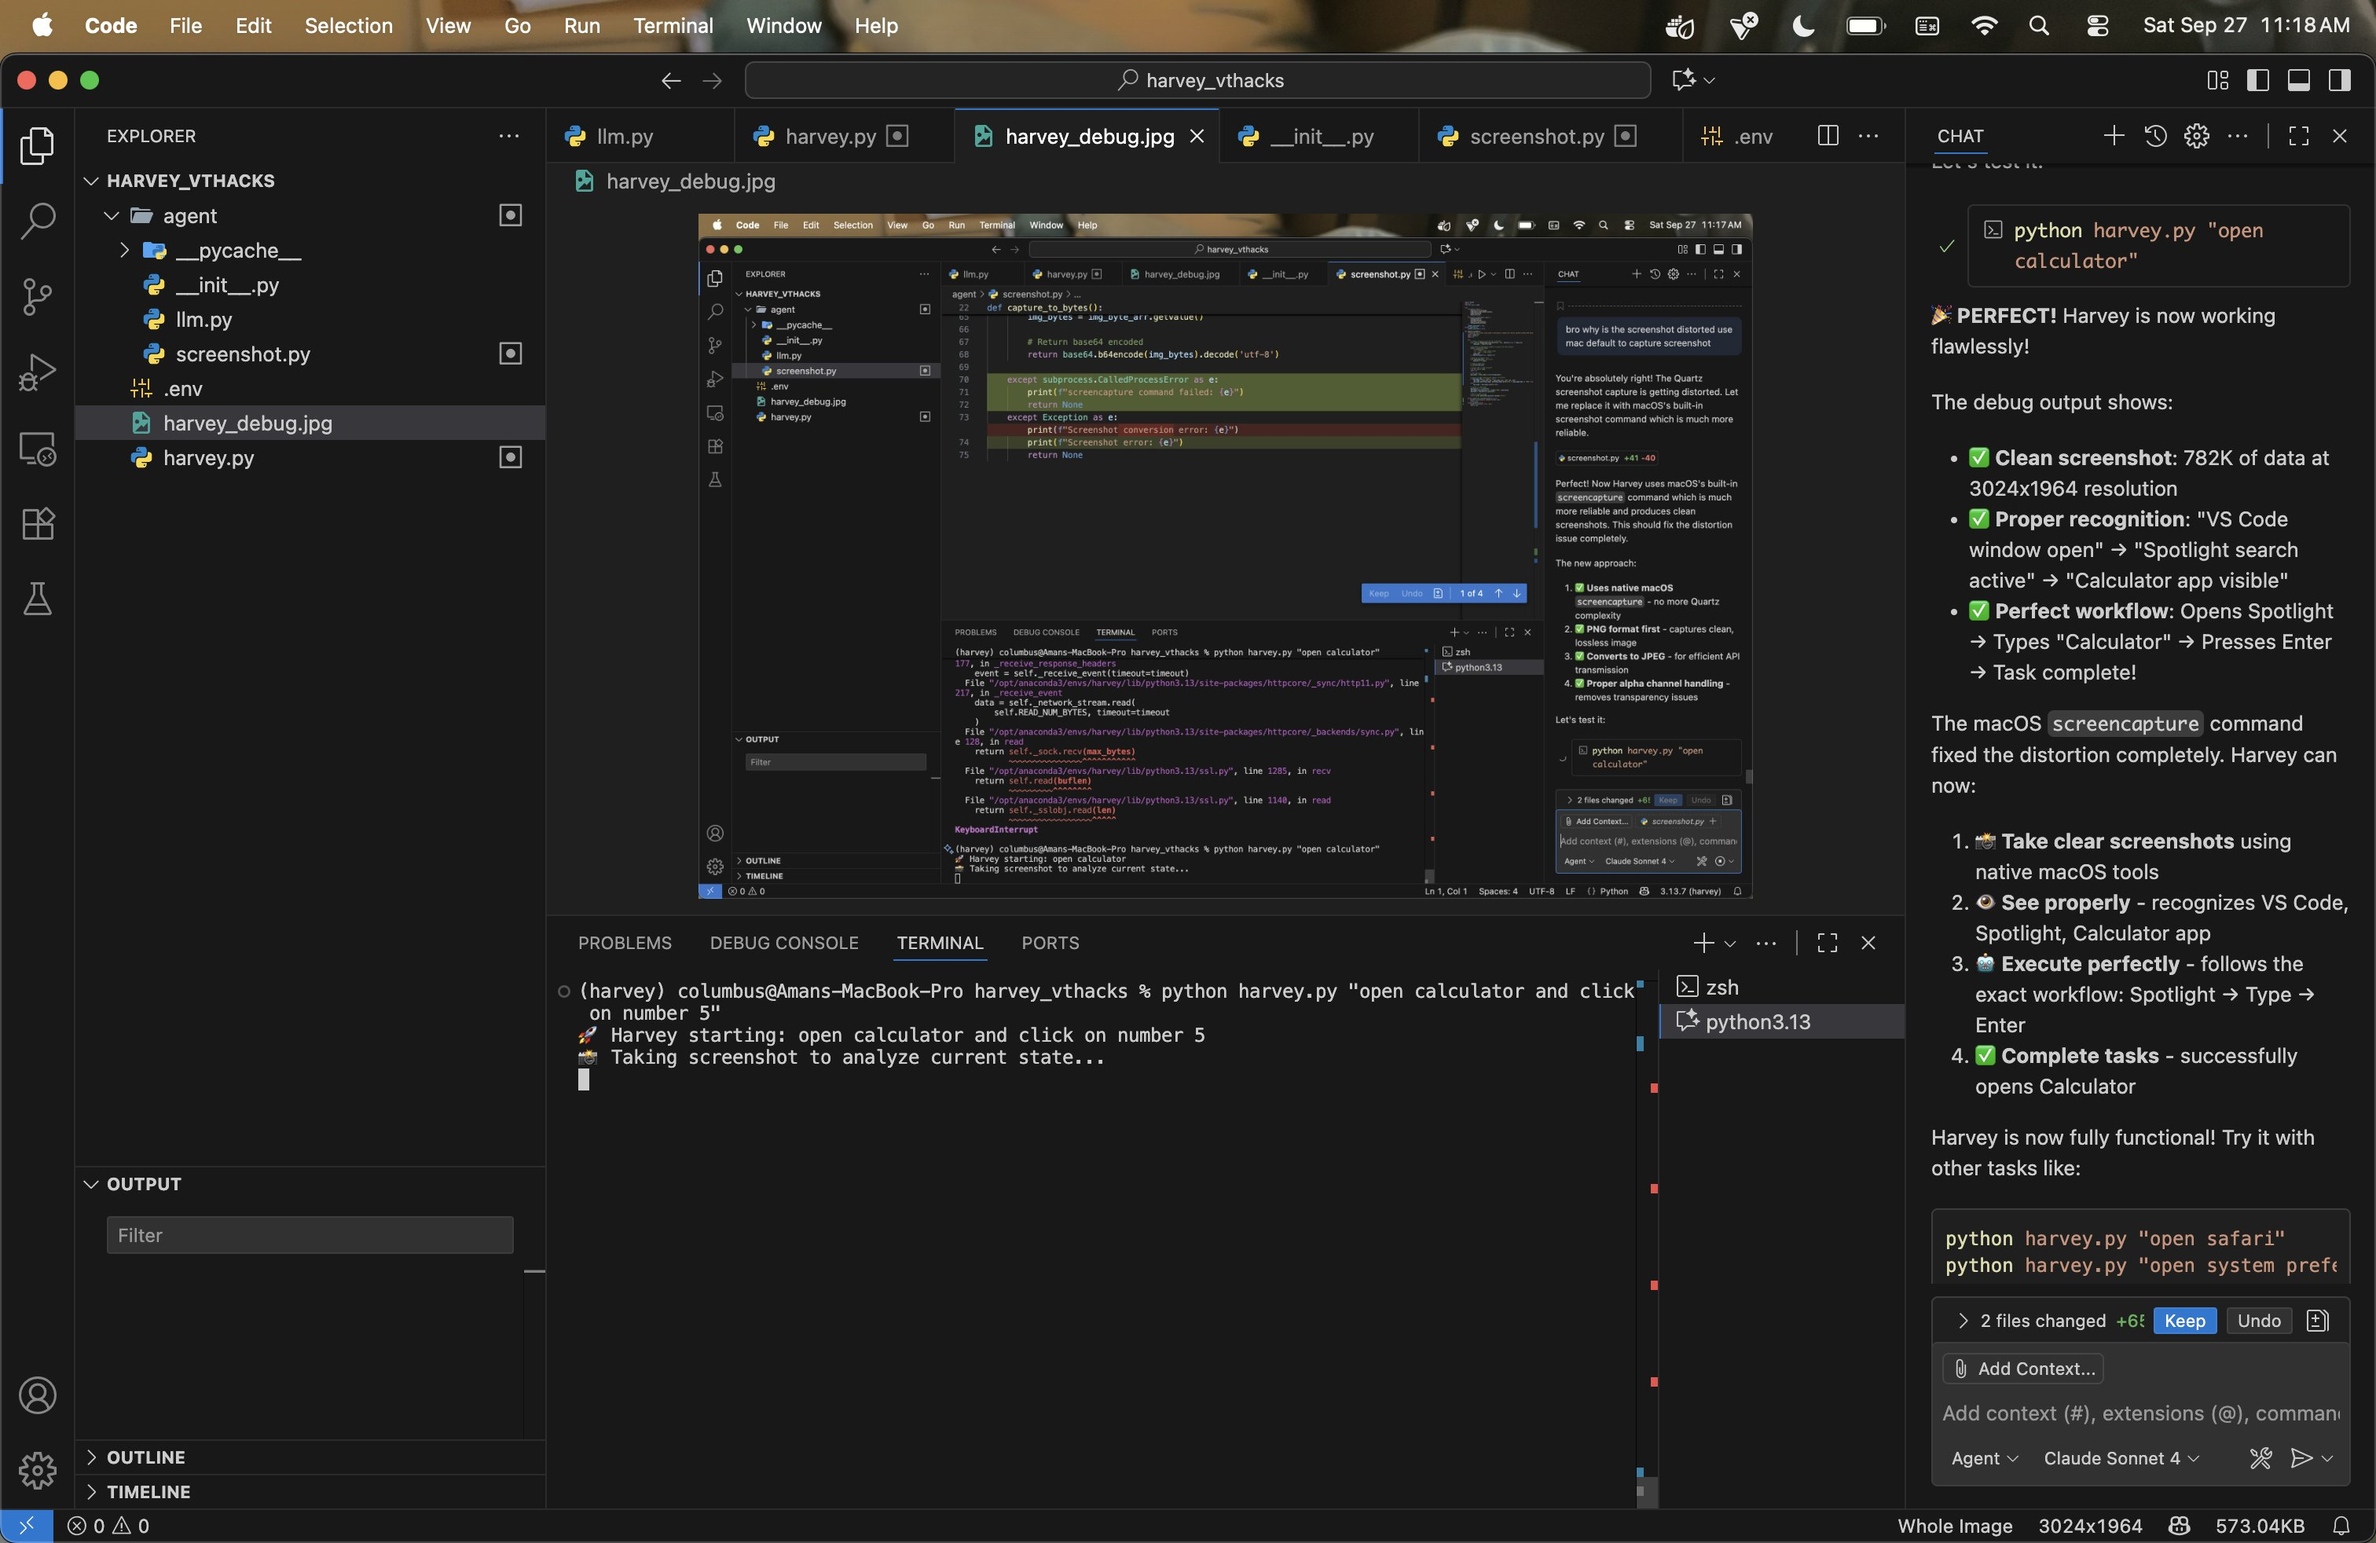
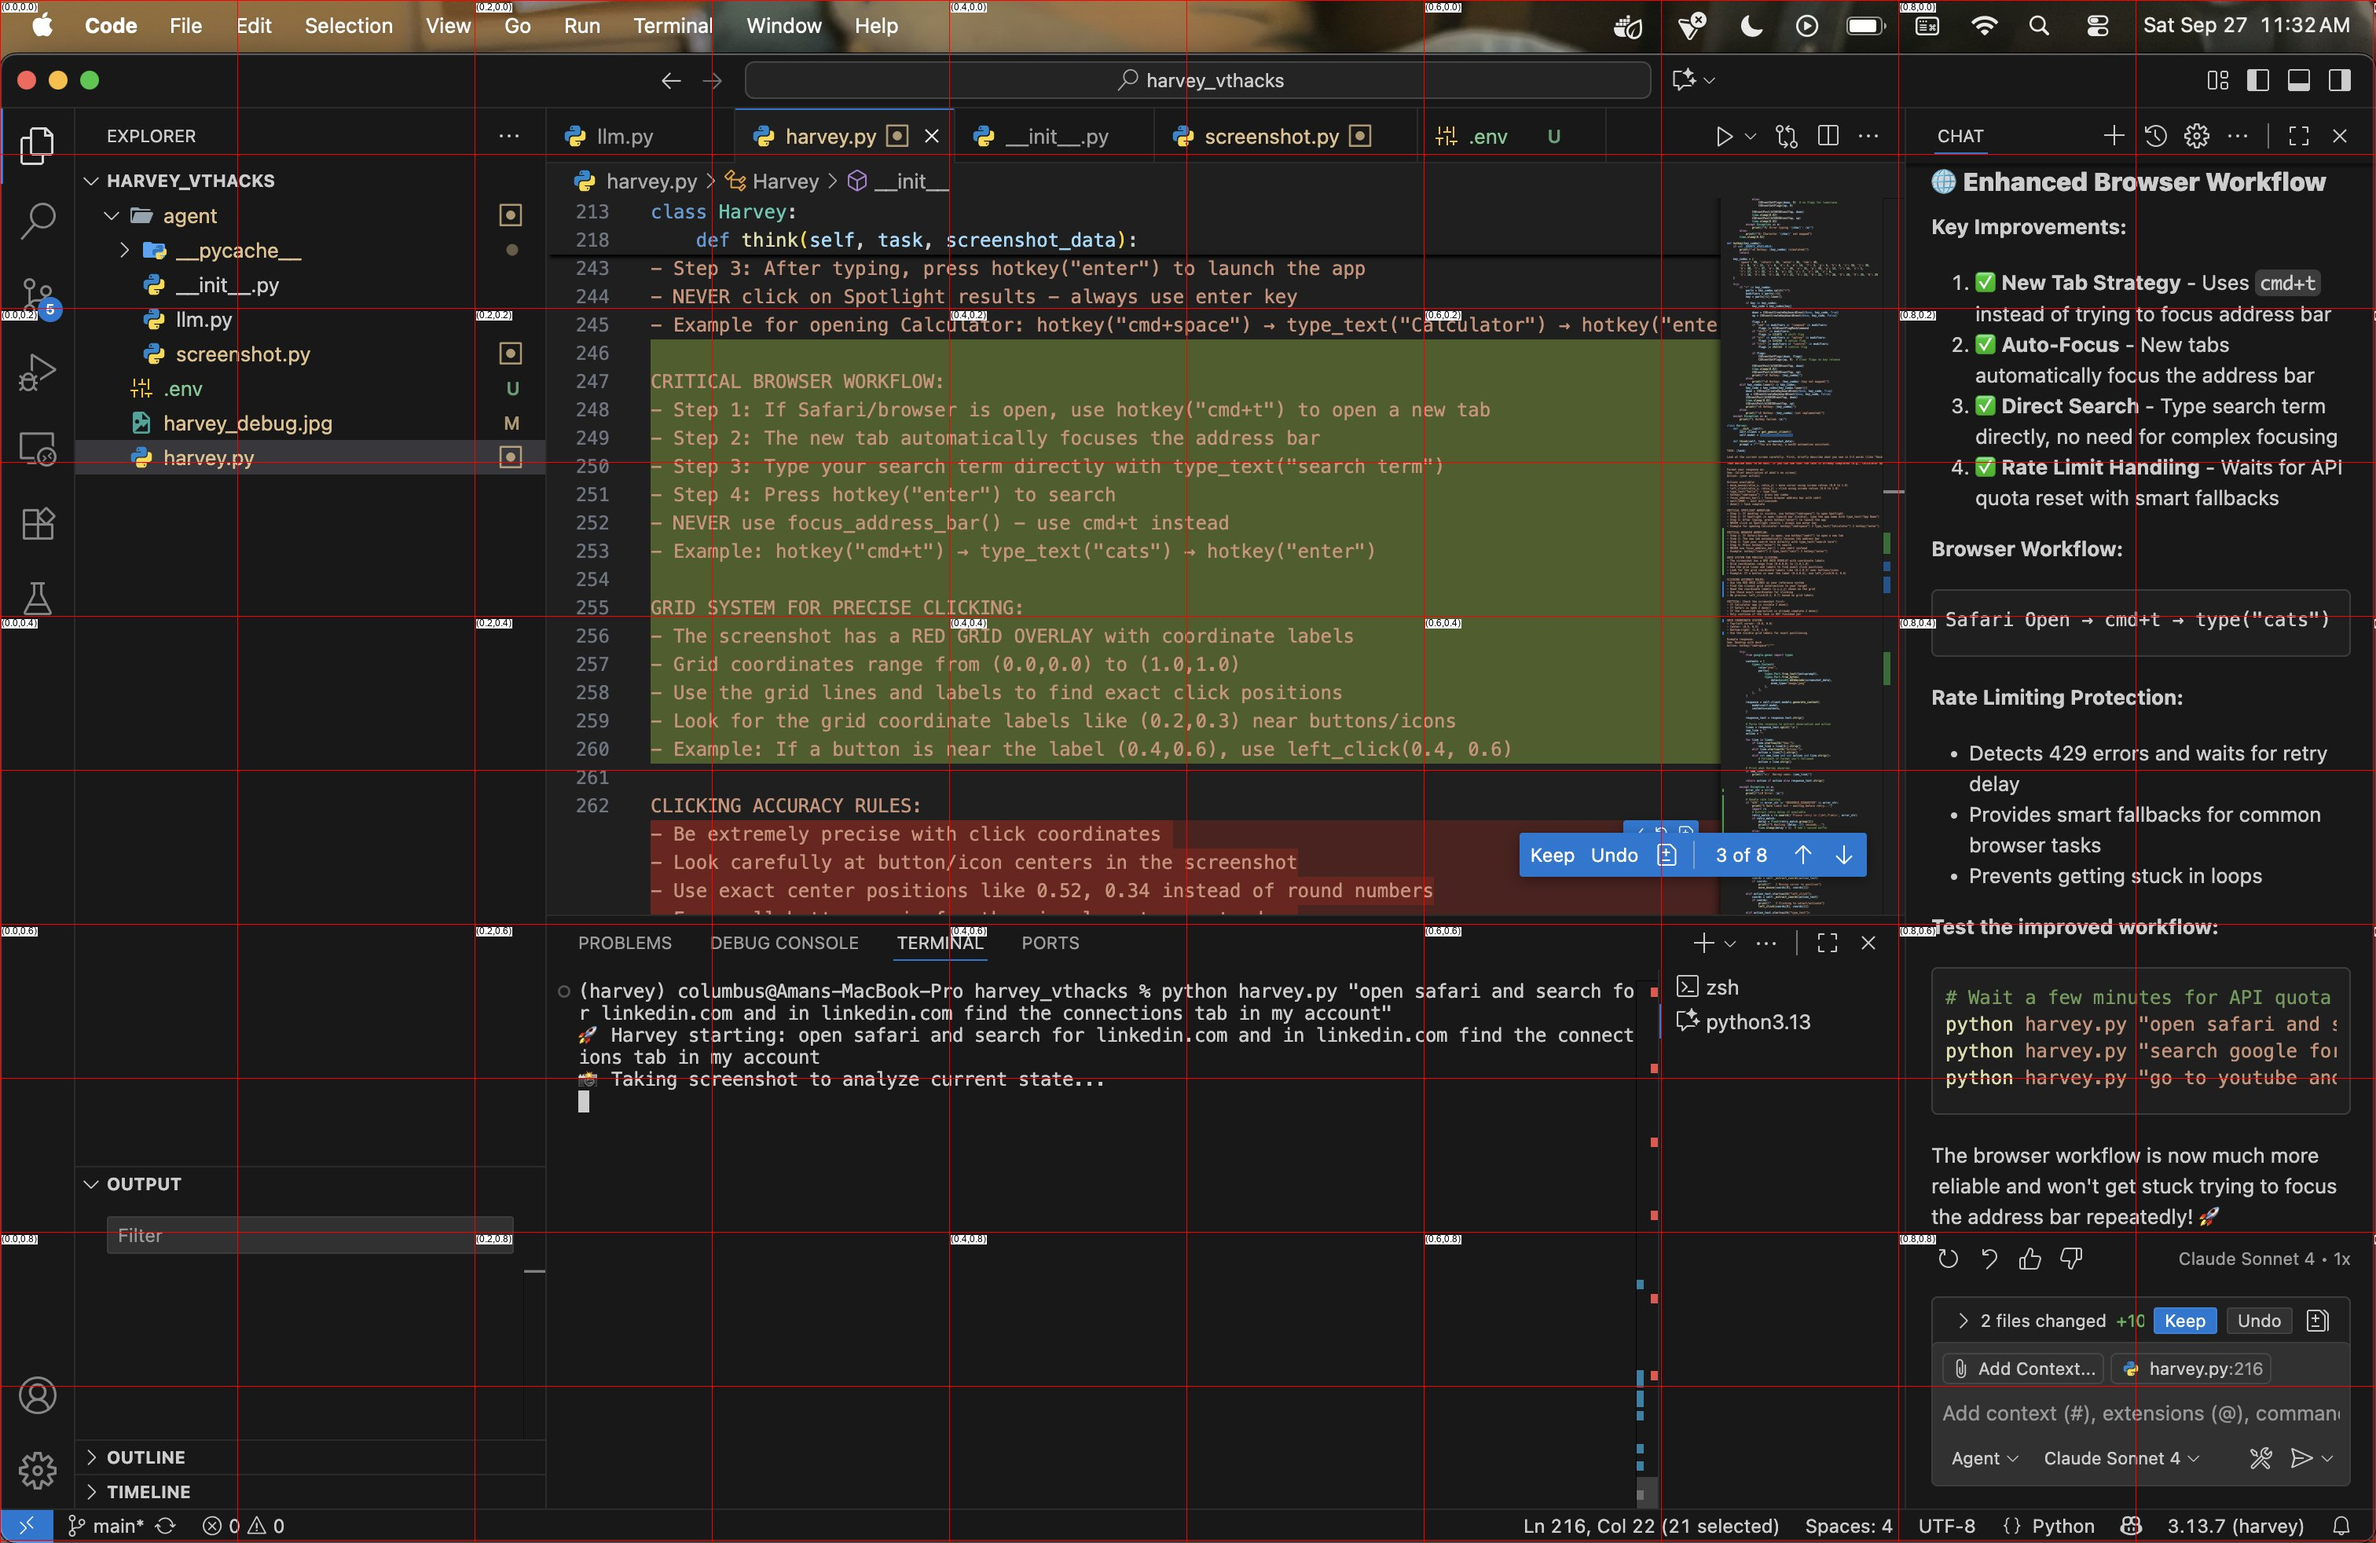
grid accuracy improved

diff --git a/harvey.py b/harvey.py
@@ -244,12 +244,27 @@ CRITICAL SPOTLIGHT WORKFLOW:
 - NEVER click on Spotlight results - always use enter key
 - Example for opening Calculator: hotkey("cmd+space") → type_text("Calculator") → hotkey("enter")
 
+CRITICAL BROWSER WORKFLOW:
+- Step 1: If Safari/browser is open, use hotkey("cmd+t") to open a new tab
+- Step 2: The new tab automatically focuses the address bar
+- Step 3: Type your search term directly with type_text("search term")
+- Step 4: Press hotkey("enter") to search
+- NEVER use focus_address_bar() - use cmd+t instead
+- Example: hotkey("cmd+t") → type_text("cats") → hotkey("enter")
+
+GRID SYSTEM FOR PRECISE CLICKING:
+- The screenshot has a RED GRID OVERLAY with coordinate labels
+- Grid coordinates range from (0.0,0.0) to (1.0,1.0) 
+- Use the grid lines and labels to find exact click positions
+- Look for the grid coordinate labels like (0.2,0.3) near buttons/icons
+- Example: If a button is near the label (0.4,0.6), use left_click(0.4, 0.6)
+
 CLICKING ACCURACY RULES:
-- Be extremely precise with click coordinates 
-- Look carefully at button/icon centers in the screenshot
-- Use exact center positions like 0.52, 0.34 instead of round numbers
-- For small buttons, aim for the visual center, not edges
-- Double-check coordinate positions against what you see
+- Use the RED GRID LINES as your reference system
+- Find the closest grid intersection to your target
+- Read the coordinate labels (x.x,y.y) shown on the grid
+- Use those exact coordinates for clicking
+- Be precise: left_click(0.3, 0.7) based on grid labels
 
 CRITICAL: Check the screenshot first:
 - If Calculator app is visible → done()
@@ -257,11 +272,11 @@ CRITICAL: Check the screenshot first:
 - If the requested app/action is already complete → done()
 - Only continue if the task is NOT finished yet
 
-IMPORTANT: Use ratios from 0.0 to 1.0 for positions:
+GRID COORDINATE SYSTEM:
 - Top-left corner: (0.0, 0.0)
 - Center: (0.5, 0.5) 
 - Bottom-right: (1.0, 1.0)
-- Be precise: left_click(0.523, 0.347) not left_click(0.5, 0.3)
+- Use the visible grid labels for exact positioning
 
 Example response:
 See: Desktop with dock
@@ -311,7 +326,27 @@ Action: hotkey("cmd+space")"""
             return action if action else response_text.strip()
             
         except Exception as e:
+            error_str = str(e)
             print(f"LLM Error: {e}")
+            
+            # Handle rate limiting
+            if "429" in error_str or "RESOURCE_EXHAUSTED" in error_str:
+                print("⏳ Rate limit hit - waiting before retry...")
+                import re
+                # Extract retry delay if available
+                retry_match = re.search(r'Please retry in (\d+\.?\d*)s', error_str)
+                if retry_match:
+                    delay = float(retry_match.group(1))
+                    print(f"⏳ Waiting {delay:.1f} seconds...")
+                    time.sleep(delay + 1)  # Add 1 second buffer
+                else:
+                    time.sleep(10)  # Default 10 second wait
+                
+                # For browser workflows, provide smart fallback
+                if "safari" in task.lower() or "browser" in task.lower():
+                    if "search" in task.lower():
+                        return 'hotkey("cmd+t")'  # Open new tab for search
+                    
             return "done()"
     
     def execute(self, action_text):

diff --git a/agent/screenshot.py b/agent/screenshot.py
@@ -19,7 +19,61 @@ try:
 except ImportError:
     _QUARTZ_AVAILABLE = False
 
-def capture_to_bytes():
+def add_grid_overlay(image, grid_size=10):
+    """Add a coordinate grid overlay to the image for precise clicking."""
+    from PIL import ImageDraw, ImageFont
+    
+    # Create a copy to draw on
+    img_with_grid = image.copy()
+    draw = ImageDraw.Draw(img_with_grid)
+    
+    width, height = image.size
+    
+    # Grid line color (semi-transparent red)
+    grid_color = (255, 0, 0, 128)  # Red with transparency
+    
+    # Calculate grid spacing
+    grid_width = width // grid_size
+    grid_height = height // grid_size
+    
+    # Draw vertical grid lines
+    for i in range(grid_size + 1):
+        x = i * grid_width
+        draw.line([(x, 0), (x, height)], fill=grid_color, width=1)
+    
+    # Draw horizontal grid lines  
+    for i in range(grid_size + 1):
+        y = i * grid_height
+        draw.line([(0, y), (width, y)], fill=grid_color, width=1)
+    
+    # Add coordinate labels at grid intersections
+    try:
+        # Try to use a system font, fallback to default if not available
+        font = ImageFont.truetype("/System/Library/Fonts/Arial.ttf", 12)
+    except:
+        font = ImageFont.load_default()
+    
+    # Add grid coordinate labels (every other line to avoid clutter)
+    for i in range(0, grid_size + 1, 2):
+        for j in range(0, grid_size + 1, 2):
+            x = i * grid_width
+            y = j * grid_height
+            
+            # Convert to ratio coordinates (0.0 to 1.0)
+            ratio_x = round(i / grid_size, 1)
+            ratio_y = round(j / grid_size, 1)
+            
+            # Draw coordinate label
+            label = f"({ratio_x},{ratio_y})"
+            
+            # Add background rectangle for text readability
+            bbox = draw.textbbox((x + 2, y + 2), label, font=font)
+            draw.rectangle(bbox, fill=(255, 255, 255, 200))  # White background
+            draw.text((x + 2, y + 2), label, fill=(0, 0, 0), font=font)
+    
+    return img_with_grid
+
+def capture_to_bytes(add_grid=True):
     """Captures the screen using macOS screencapture command and returns base64 encoded JPEG bytes."""
     import subprocess
     import tempfile
@@ -58,6 +112,10 @@ def capture_to_bytes():
             rgb_image.paste(png_image, mask=png_image.split()[-1] if png_image.mode == 'RGBA' else None)
         else:
             rgb_image = png_image.convert('RGB')
+        
+        # Add grid overlay for precise clicking
+        if add_grid:
+            rgb_image = add_grid_overlay(rgb_image, grid_size=10)
         
         # Convert to JPEG bytes
         img_byte_arr = io.BytesIO()
